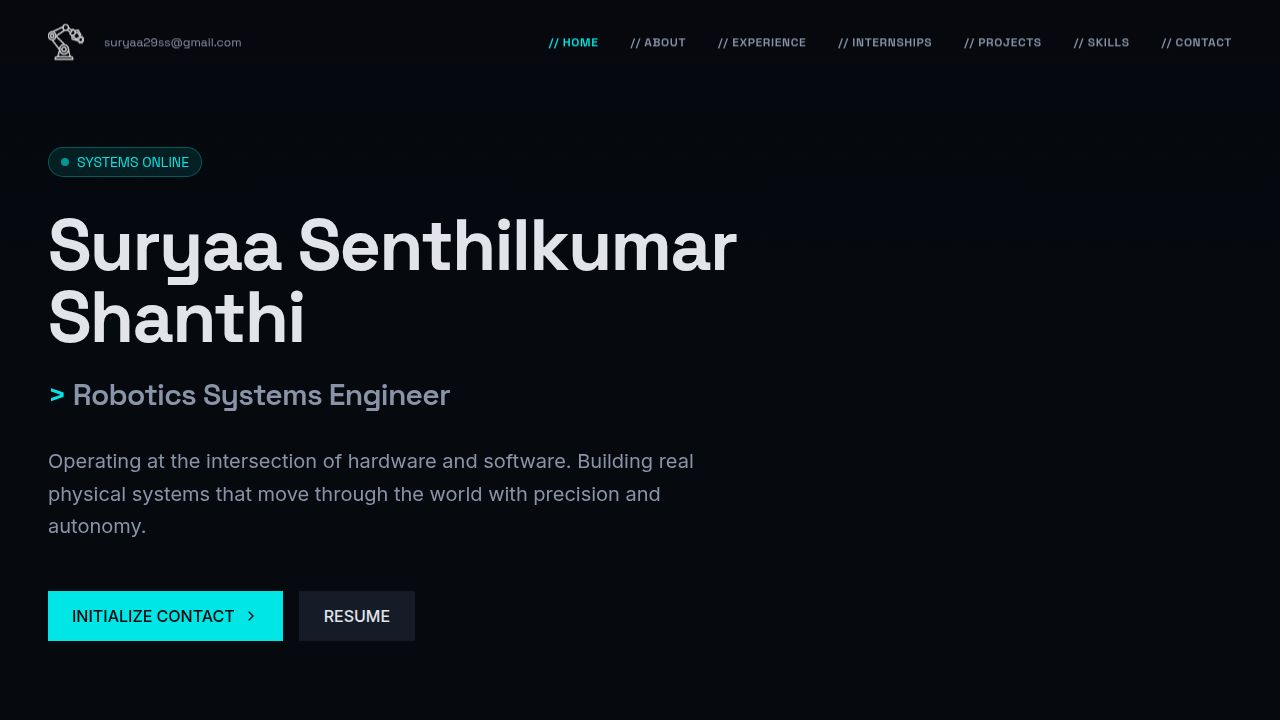
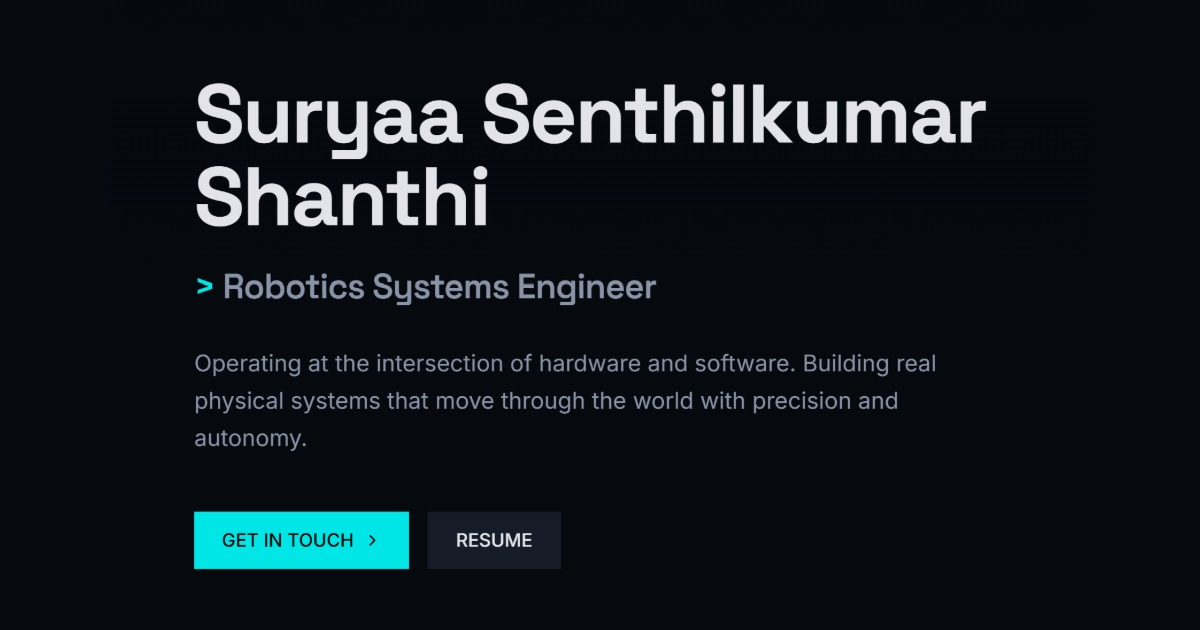
Add link preview metadata and outcome details to Robolabs bullets
- index.html: descriptive title, meta description, Open Graph tags
- Replace opengraph.jpg with current 1200x630 hero screenshot
- Robolabs: add <3 cm tolerance and 40% latency reduction to experience bullets

diff --git a/src/pages/home.tsx b/src/pages/home.tsx
@@ -110,8 +110,8 @@ export function Home() {
                   title: "Robotics Systems Engineer",
                   date: "May 2025–Present",
                   bullets: [
-                    "Engineered a real-time autonomous mobile robot platform with EKF-based multi-sensor fusion (dual navigation sensors, IMU, and wheel odometry) for continuous 3-DOF pose estimation, paired with A* grid-based path planning with collision avoidance and a Pure Pursuit controller with adaptive speed ramping",
-                    "Built a heterogeneous compute pipeline linking a Raspberry Pi (YOLO-based object detection at 15 Hz) to an ARM embedded controller over a custom CRC32-validated serial protocol, with a high-priority receive thread and mutex-protected shared state for real-time data integrity",
+                    "Engineered a real-time autonomous mobile robot platform with EKF-based multi-sensor fusion (dual navigation sensors, IMU, and wheel odometry) for continuous 3-DOF pose estimation, paired with A* grid-based path planning with collision avoidance and a Pure Pursuit controller with adaptive speed ramping that tracks paths smoothly at higher speeds while holding <3 cm position tolerance",
+                    "Built a heterogeneous compute pipeline linking a Raspberry Pi (YOLO-based object detection at 15 Hz) to an ARM embedded controller over a custom CRC32-validated serial protocol, with a high-priority receive thread and mutex-protected shared state that reject corrupted packets and prevent race conditions, cutting end-to-end latency by 40% versus the earlier single-threaded design",
                     "Designed a multi-stage object acquisition pipeline driven by a non-blocking FSM coordinating optical sensors and a 4-stage actuator system, including hue-based object classification for selective manipulation",
                     "Currently investigating SLAM-based localization approaches and porting the navigation stack to ROS 2"
                   ],

diff --git a/index.html b/index.html
@@ -3,7 +3,14 @@
   <head>
     <meta charset="UTF-8" />
     <meta name="viewport" content="width=device-width, initial-scale=1.0, maximum-scale=1" />
-    <title>Suryaa's Portfolio</title>
+    <title>Suryaa Senthilkumar Shanthi | Robotics Systems Engineer</title>
+    <meta name="description" content="Robotics Systems Engineer building autonomous navigation, sensor fusion, and real-time embedded systems. M.S. ECE, Georgia Tech." />
+    <meta property="og:type" content="website" />
+    <meta property="og:url" content="https://suryaa29ss.vercel.app/" />
+    <meta property="og:title" content="Suryaa Senthilkumar Shanthi | Robotics Systems Engineer" />
+    <meta property="og:description" content="Robotics Systems Engineer building autonomous navigation, sensor fusion, and real-time embedded systems. M.S. ECE, Georgia Tech." />
+    <meta property="og:image" content="https://suryaa29ss.vercel.app/opengraph.jpg" />
+    <meta name="twitter:card" content="summary_large_image" />
     <link rel="icon" type="image/png" href="/robot-icon.png" />
     <link rel="preconnect" href="https://fonts.googleapis.com">
     <link rel="preconnect" href="https://fonts.gstatic.com" crossorigin>
